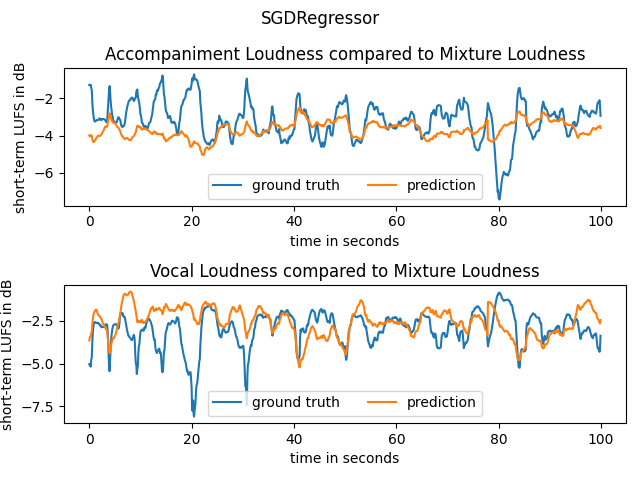
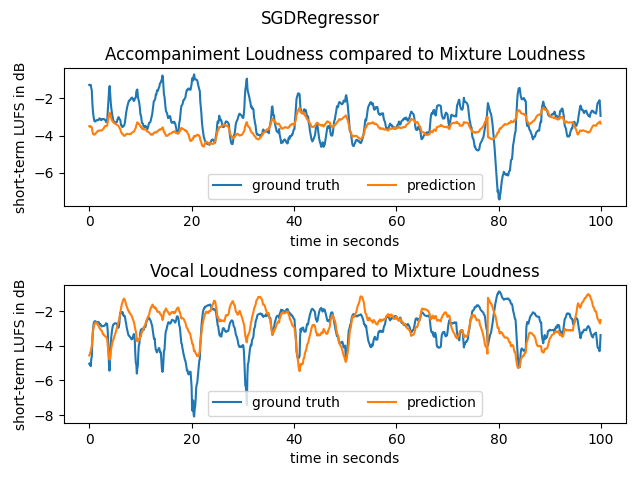
shuffle

diff --git a/Source/helper.py b/Source/helper.py
@@ -2,6 +2,7 @@ import numpy as np
 import matplotlib.pyplot as plt
 from sklearn.metrics import mean_absolute_error
 from sklearn.metrics import max_error
+import random
 
 
 
@@ -20,6 +21,7 @@ def MAE(y_test, y_pred, Regressor = "Regressors"):
     print(" ")
 
     return MAE_acc, MAE_vox
+
 
 
 def ME(y_test, y_pred, Regressor = "Regressors"):
@@ -42,16 +44,25 @@ def ME(y_test, y_pred, Regressor = "Regressors"):
 
 
 
-def plot(y_test, y_pred, subtitle="subtitle", show_plot=None):
+def plot(y_test, y_pred, subtitle="subtitle", show_plot=False, shuffle=False):
 
     """
     plot the two predicted and groud truth loudness
     """
 
+
+    if shuffle:
+        stack = np.concatenate([y_test, y_pred], axis=1)
+        np.random.shuffle(stack)
+        y_test = stack.T[:2].T
+        y_pred = stack.T[2:].T
+
+
     t = np.arange(y_pred.shape[0])/10
 
     plt.figure()
     plt.suptitle(subtitle)
+
 
     plt.subplot(211)  #acc
     plt.title('Accompaniment Loudness compared to Mixture Loudness')

diff --git a/README.md b/README.md
@@ -204,3 +204,7 @@ To-Do:
 
 
 Last week:
+
+
+1. Shuffle the resulting plots(Learning is happening, but outside of (-2, -4)db range is not predicted well)
+2.
